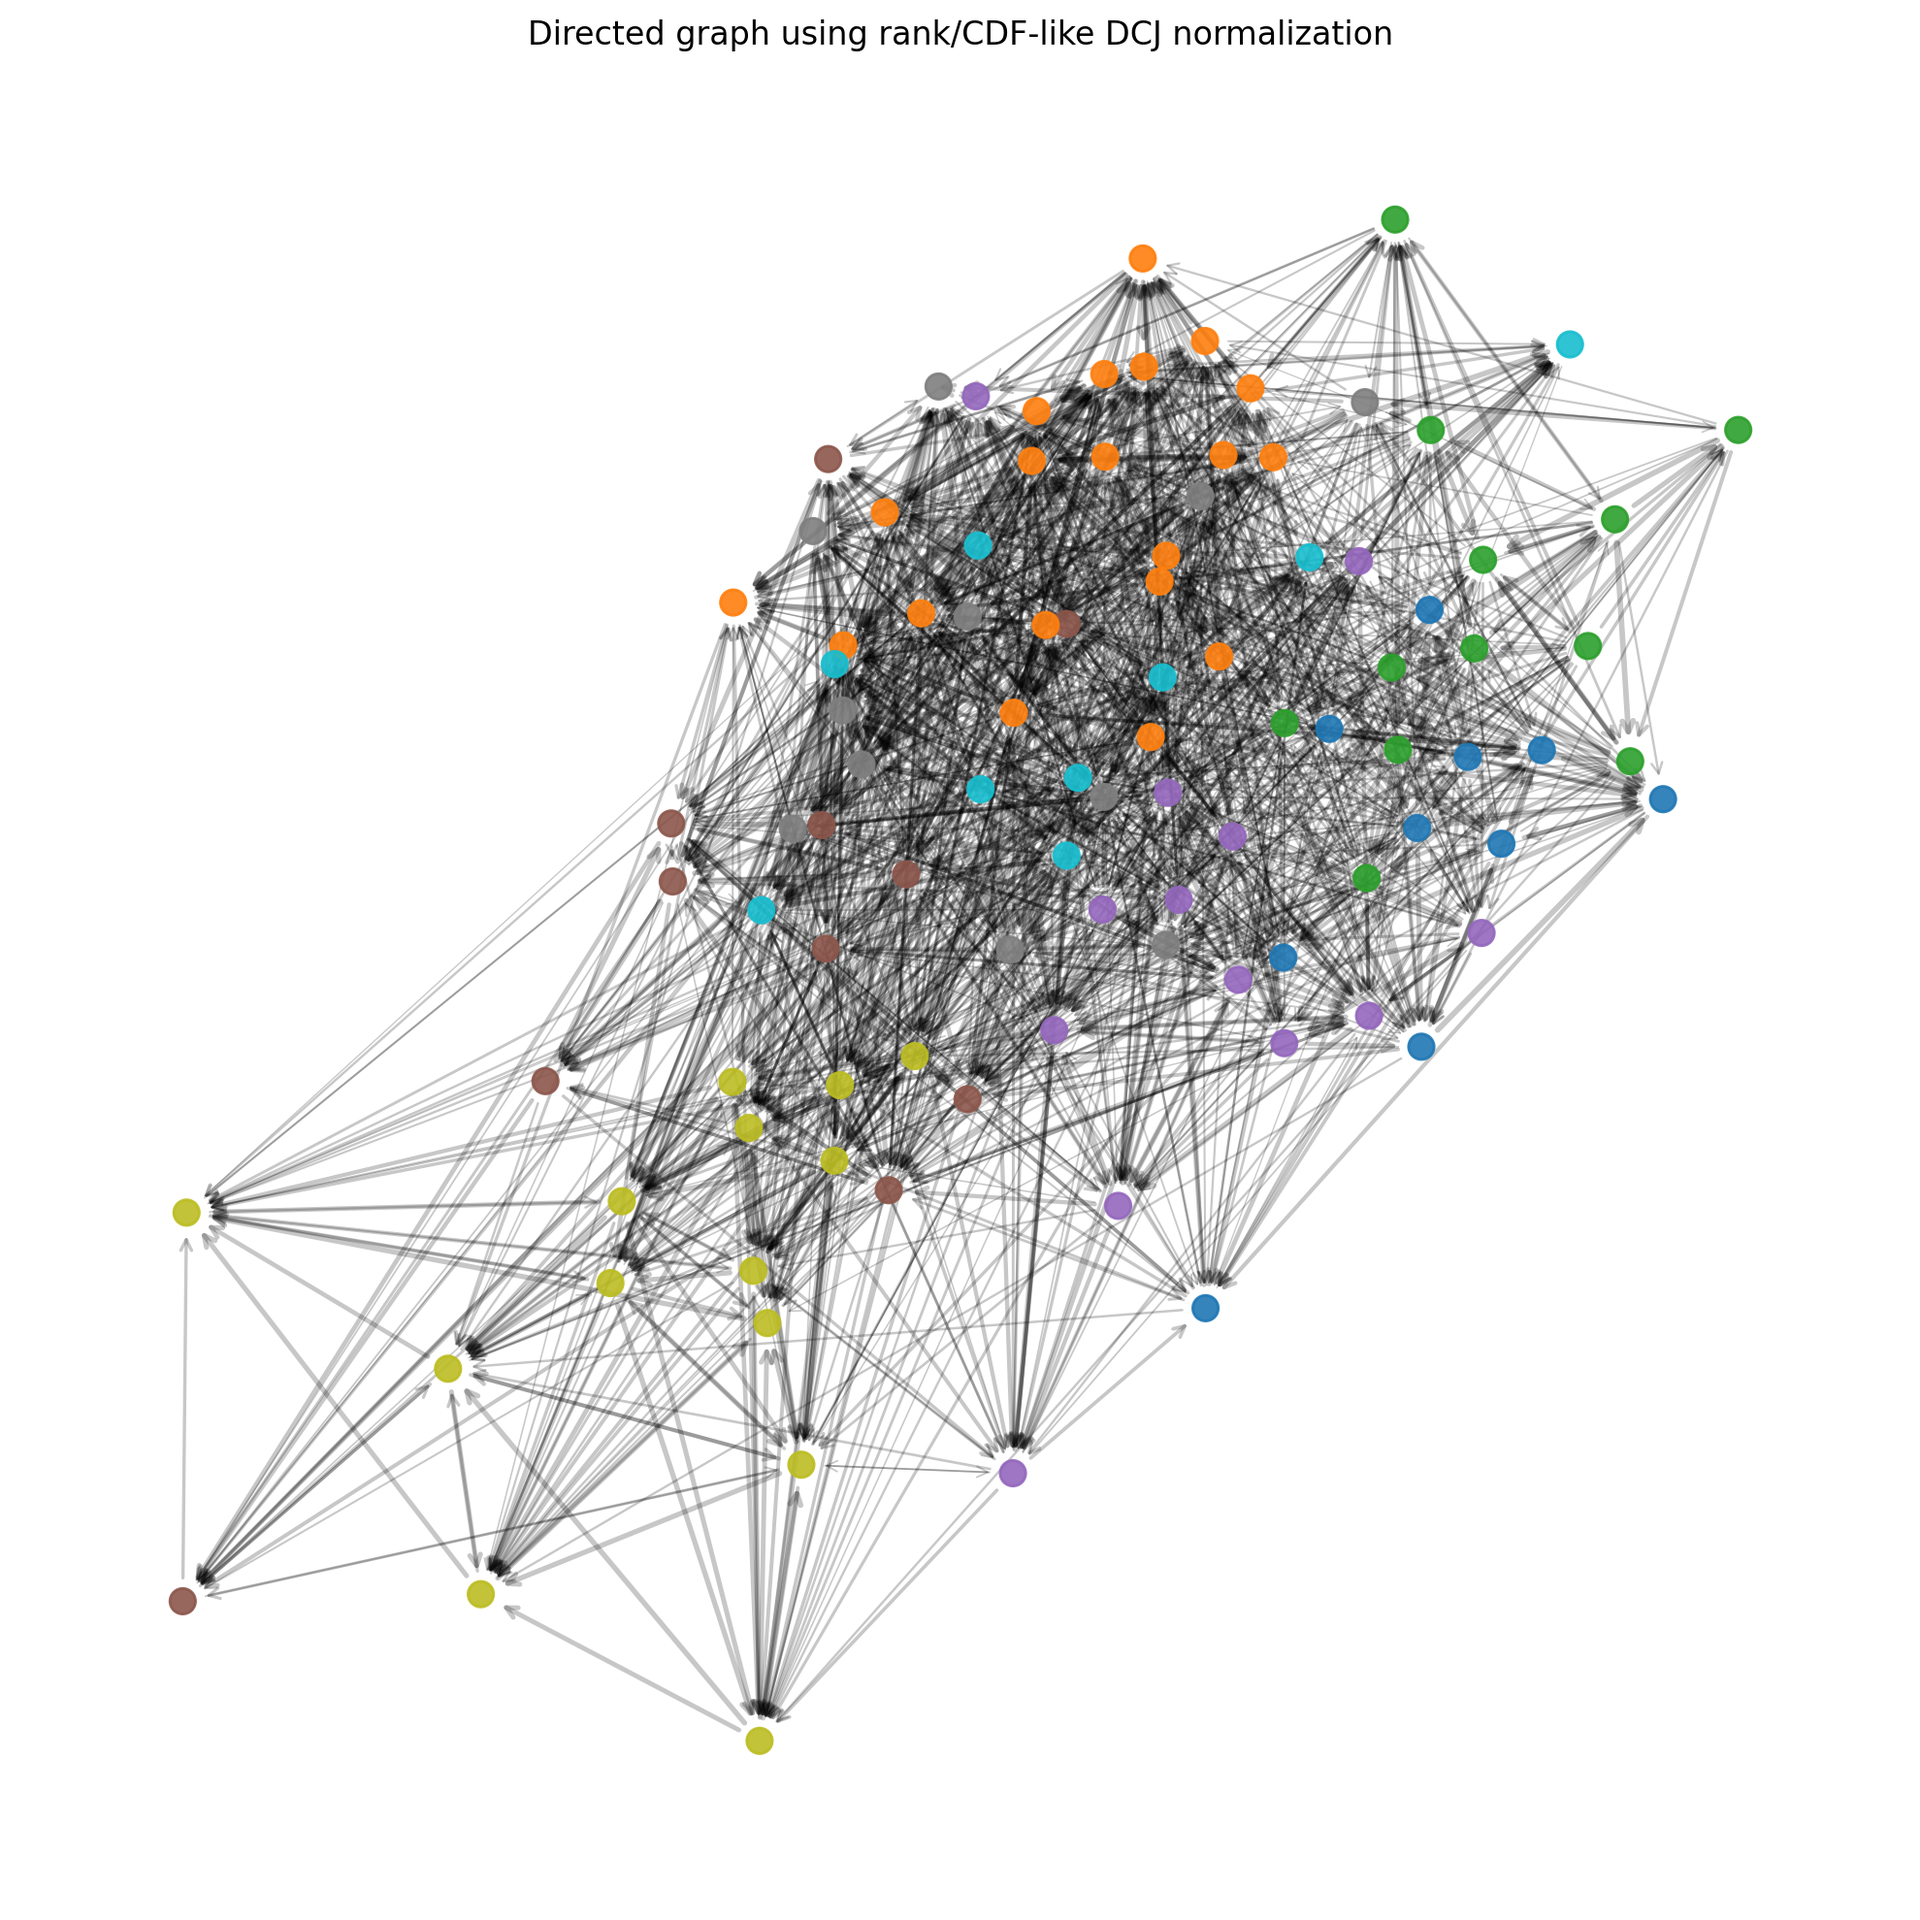
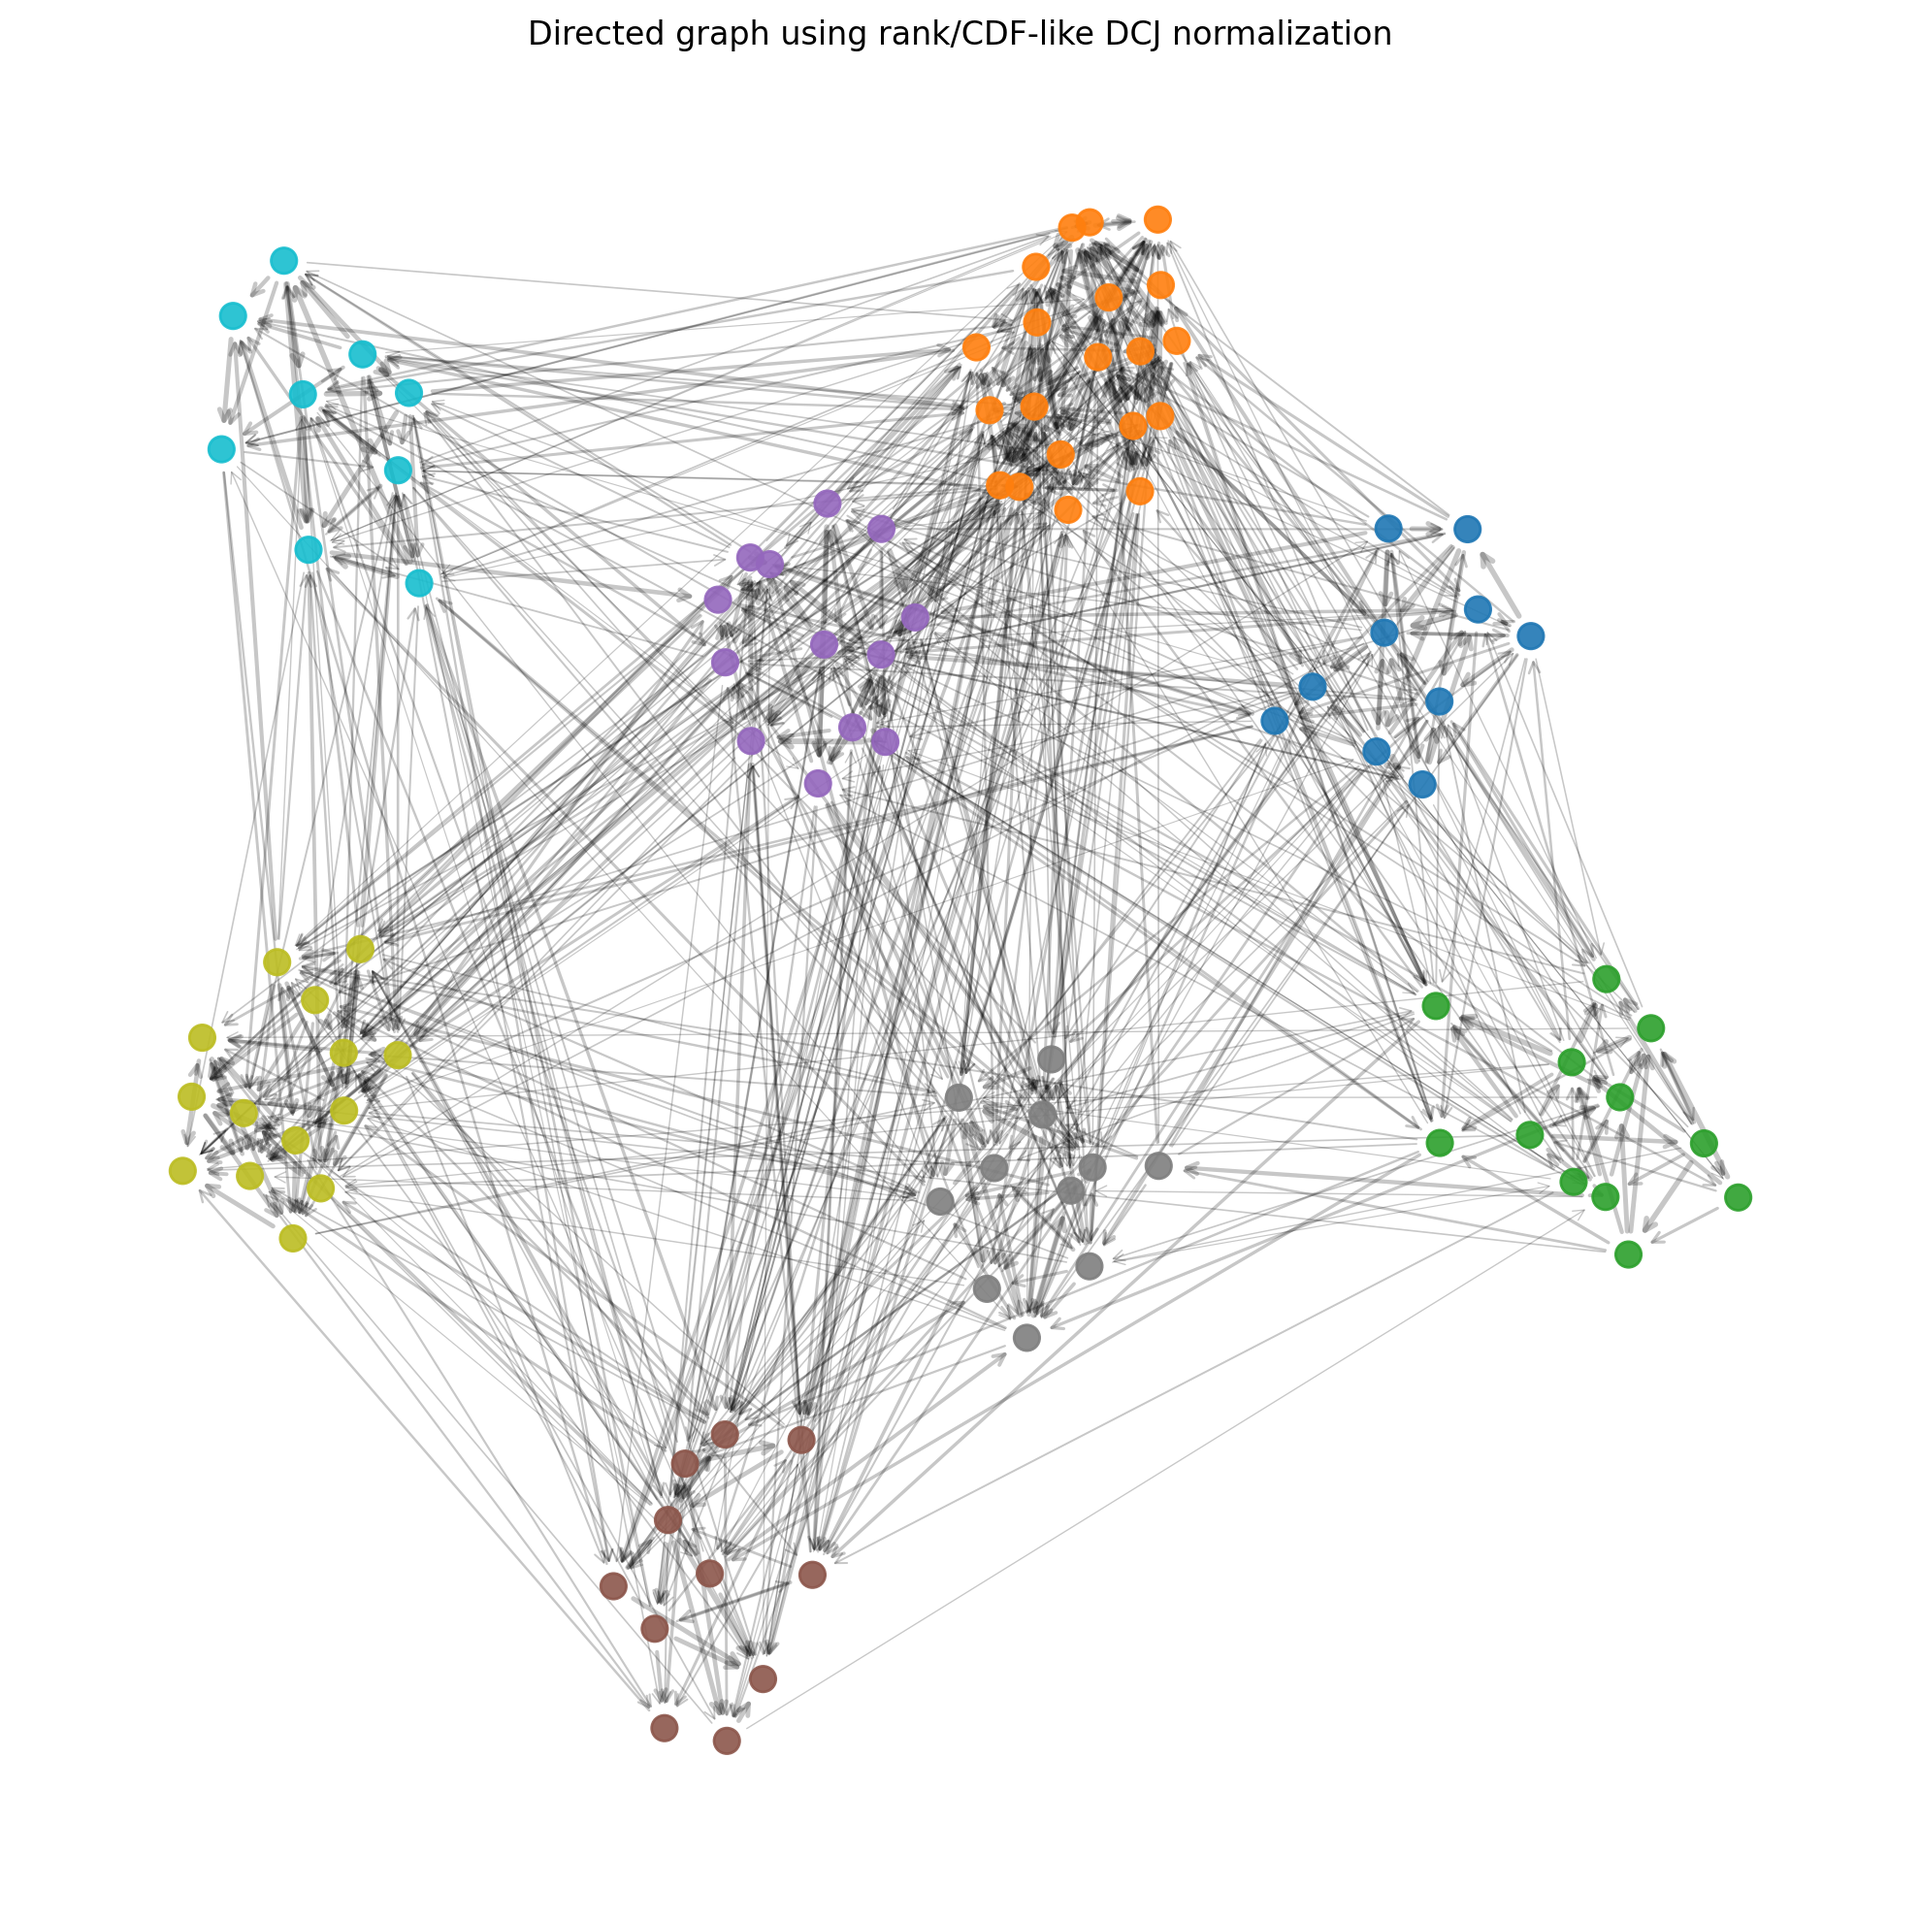
new graph and clustering weights to plot clusters together

Changed region(s): [[0.0925, 0.0925, 0.9247, 0.9247], [0.6473, 0.0, 0.7089, 0.0308]]

diff --git a/plasmid_network_sim.py b/plasmid_network_sim.py
@@ -1,6 +1,8 @@
 import numpy as np
 import matplotlib.pyplot as plt
 import networkx as nx
+from sklearn.cluster import DBSCAN
+from sklearn.metrics import adjusted_rand_score
 
 
 # ============================================================
@@ -230,9 +232,43 @@ def plot_matrix(mat, title, cmap="viridis"):
     plt.tight_layout()
 
 
-def draw_graph(G, title, families=None, seed=42, node_size=90):
+def draw_graph(
+    G,
+    title,
+    families=None,
+    group_labels=None,
+    seed=42,
+    node_size=90,
+    group_strength=2.0,
+):
+    """Draw a directed graph and optionally group nodes by cluster labels.
+
+    When `group_labels` is provided, we add temporary "attraction" edges between nodes
+    in the same group before computing the spring layout. This makes nodes in the same
+    group tend to be placed closer together.
+    """
+
     plt.figure(figsize=(10, 10))
-    pos = nx.spring_layout(G, seed=seed, k=0.45 / np.sqrt(max(1, G.number_of_nodes())))
+
+    # Compute layout: optionally augment graph with group edges to pull clusters together
+    if group_labels is None:
+        pos = nx.spring_layout(G, seed=seed, k=0.45 / np.sqrt(max(1, G.number_of_nodes())))
+    else:
+        # Create a copy so we don't modify the original graph
+        G_pos = G.copy()
+        for lbl in set(group_labels):
+            if lbl is None or lbl == -1:
+                continue
+            members = [i for i, c in enumerate(group_labels) if c == lbl]
+            for u in members:
+                for v in members:
+                    if u >= v:
+                        continue
+                    # Add a tiny attractive edge to pull group members together
+                    w = G_pos[u][v]["weight"] if G_pos.has_edge(u, v) else 0.0
+                    G_pos.add_edge(u, v, weight=w + group_strength)
+                    G_pos.add_edge(v, u, weight=w + group_strength)
+        pos = nx.spring_layout(G_pos, seed=seed, k=0.45 / np.sqrt(max(1, G.number_of_nodes())))
 
     if families is None:
         node_colors = None
@@ -275,6 +311,7 @@ def main():
         n_families=8,
         seed=123,
     )
+    gamma = 2
 
     d1, d2 = generate_structured_distances(plasmids, seed=456)
 
@@ -286,9 +323,9 @@ def main():
     d_comb_exp = combined_distance(F_exp, d2)
     d_comb_rank = combined_distance(F_rank, d2)
 
-    p_minmax = distance_to_probability(d_comb_minmax, gamma=1.2)
-    p_exp = distance_to_probability(d_comb_exp, gamma=1.2)
-    p_rank = distance_to_probability(d_comb_rank, gamma=1.2)
+    p_minmax = distance_to_probability(d_comb_minmax, gamma=gamma)
+    p_exp = distance_to_probability(d_comb_exp, gamma=gamma)
+    p_rank = distance_to_probability(d_comb_rank, gamma=gamma)
 
     G_minmax = sample_directed_graph(p_minmax, seed=11)
     G_exp = sample_directed_graph(p_exp, seed=22)
@@ -309,15 +346,35 @@ def main():
         G_exp,
         "Directed graph using exponential DCJ normalization",
         families=plasmids["families"],
+        group_labels=plasmids["families"],
         seed=1,
     )
     draw_graph(
         G_rank,
         "Directed graph using rank/CDF-like DCJ normalization",
         families=plasmids["families"],
+        group_labels=plasmids["families"],
         seed=2,
     )
     plt.savefig("figures/example_network_exp.png", dpi=200, bbox_inches="tight")
+
+    # Clustering comparison using DBSCAN on combined distance - THIS USES AN ARBITARY THRESHOLD - NOT GOOD
+    clusters = DBSCAN(eps=0.3, min_samples=5, metric='precomputed').fit_predict(d_comb_exp)
+    n_clusters = len(set(clusters)) - (1 if -1 in clusters else 0)
+    n_noise = list(clusters).count(-1)
+    ari = adjusted_rand_score(plasmids["families"], clusters)
+
+    print(f"DBSCAN estimated clusters: {n_clusters}")
+    print(f"Noise points: {n_noise}")
+    print(f"Adjusted Rand Index vs true families: {ari:.3f}")
+
+    draw_graph(
+        G_exp,
+        f"Directed graph colored by DBSCAN clusters (ARI={ari:.3f})",
+        families=clusters,
+        group_labels=clusters,
+        seed=3,
+    )
 
     plt.show()
 
